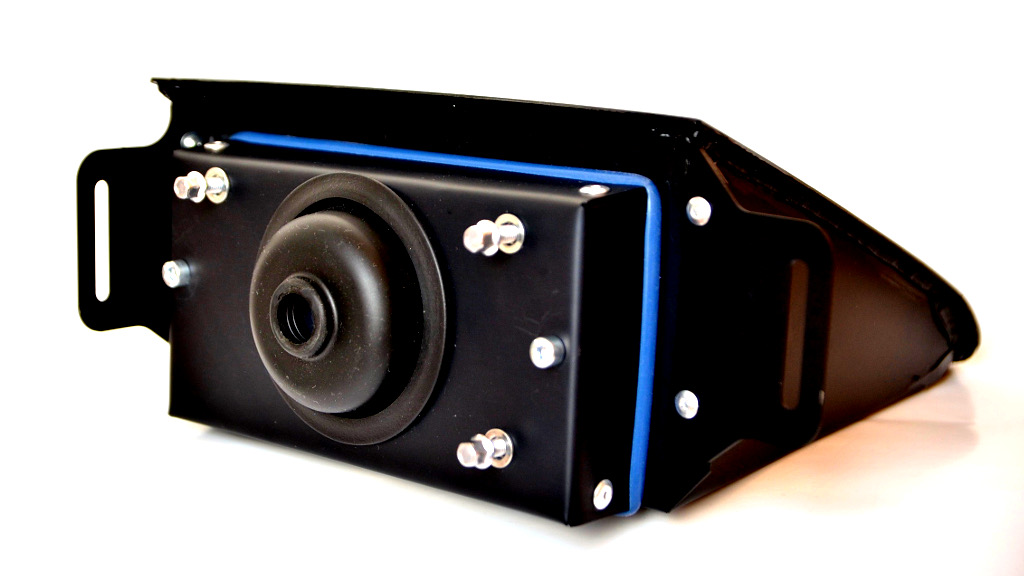
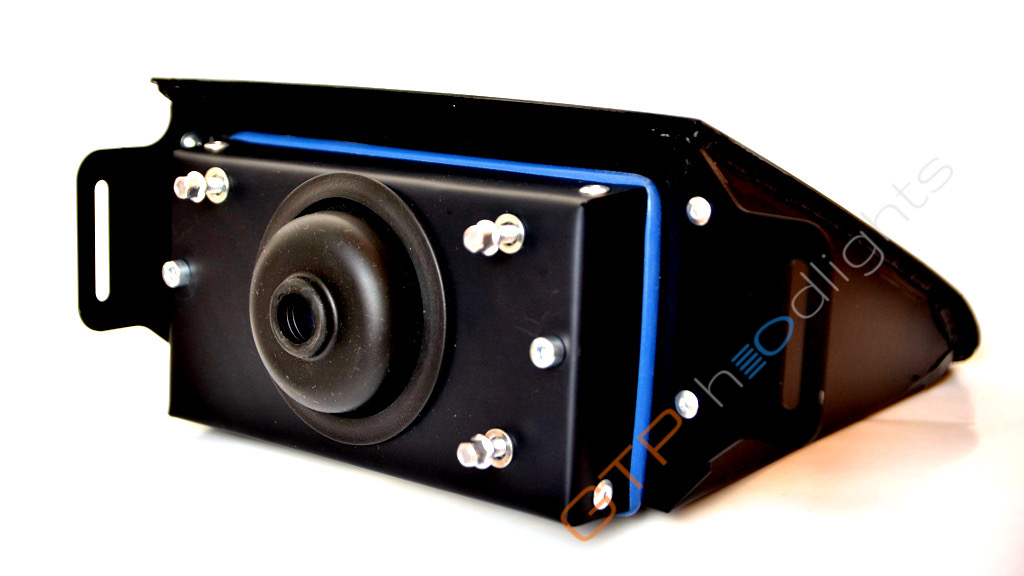
pictures clean up and WM

Changed region(s): [[0.6875, 0.4062, 0.875, 0.6875], [0.5312, 0.7188, 0.6875, 0.9375]]

diff --git a/index.html b/index.html
@@ -50,7 +50,7 @@
         <div class="mdl-grid portfolio-max-width">
             <div class="mdl-cell mdl-cell--4-col mdl-cell--4-col-tablet mdl-card  mdl-card mdl-shadow--4dp portfolio-blog-card-compact">
                 <div class="mdl-card__media">
-                    <img class="article-image" src="moje/hella.jpg" border="0" alt="">
+                    <img class="article-image" src="static/photos/hella.jpg" border="0" alt="">
                 </div>
                 <div class="mdl-card__title ">
                     <h2 class="mdl-card__title-text">NEW! Dual featured lenses</h2>
@@ -70,7 +70,7 @@
             </div>
             <div class="mdl-cell mdl-cell--4-col mdl-cell--4-col-tablet mdl-card  mdl-card mdl-shadow--4dp portfolio-blog-card-compact">
                 <div class="mdl-card__media">
-                    <img class="article-image" src="moje/silver-led.jpg" border="0" alt="">
+                    <img class="article-image" src="static/photos/silver-led.jpg" border="0" alt="">
                 </div>
                 <div class="mdl-card__title ">
                     <h2 class="mdl-card__title-text">NEW! Classic look new technology</h2>
@@ -90,7 +90,7 @@
             </div>
             <div class="mdl-cell mdl-cell--4-col mdl-cell--4-col-tablet mdl-card  mdl-card mdl-shadow--4dp portfolio-blog-card-compact">
                 <div class="mdl-card__media">
-                    <img class="article-image" src="moje/black-led.jpg" border="0" alt="">
+                    <img class="article-image" src="static/photos/black-led.jpg" border="0" alt="">
                 </div>
                 <div class="mdl-card__title ">
                     <h2 class="mdl-card__title-text">NEW! Dark look and new technology</h2>
@@ -110,7 +110,7 @@
             </div>
             <div class="mdl-grid mdl-cell mdl-cell--12-col mdl-cell--12-col-tablet mdl-card mdl-shadow--4dp">
                 <div class="mdl-card__media mdl-cell mdl-cell--6-col mdl-cell--6-col-tablet">
-                    <img class="article-image" src="moje/weight.png" border="0" alt="">
+                    <img class="article-image" src="static/photos/weight.png" border="0" alt="">
                 </div>
                 <div class="mdl-cell mdl-cell--6-col">
                     <div class="mdl-card__title ">
@@ -136,7 +136,7 @@
                     <h2 class="mdl-card__title-text">Lights designed for competition use!</h2>
                 </div>
                 <div class="mdl-card__media">
-                    <a href="#"> <img class="article-image" src="moje/competition-use.jpg" border="0" alt=""></a>
+                    <a href="#"> <img class="article-image" src="static/photos/competition-use.jpg" border="0" alt=""></a>
                 </div>
                 <div class="mdl-card__supporting-text">
                     <p>Very light replacement for the heavy original ones but resistant to heavy condition.</p>
@@ -144,7 +144,7 @@
             </div>
             <div class="mdl-cell mdl-cell--4-col mdl-cell--6-col-tablet mdl-card mdl-shadow--4dp ">
                 <div class="mdl-card__media">
-                    <a href="#"> <img class="article-image" src="moje/left-beam.png" border="0" alt=""></a>
+                    <a href="#"> <img class="article-image" src="static/photos/left-beam.png" border="0" alt=""></a>
                 </div>
                 <div class="mdl-card__supporting-text">
                     <h2 class="mdl-card__title-text">Handcrafted. Limited edition!</h2>
@@ -192,7 +192,7 @@
             </div>
             <div class="mdl-cell mdl-cell--5-col mdl-cell--6-col-tablet mdl-card  mdl-card mdl-shadow--4dp portfolio-blog-card-compact">
                 <div class="mdl-card__media">
-                    <img class="article-image" src="moje/mounting.jpg" border="0" alt="">
+                    <img class="article-image" src="static/photos/mounting.jpg" border="0" alt="">
                 </div>
                 <div class="mdl-card__title ">
                     <h2 class="mdl-card__title-text">Easy installation</h2>

diff --git a/home-test.html b/home-test.html
@@ -52,7 +52,7 @@
         <div class="mdl-grid portfolio-max-width">
             <div class="mdl-grid mdl-cell mdl-cell--12-col mdl-cell--6-col-tablet mdl-card mdl-shadow--4dp">
                 <div class="mdl-card__media mdl-cell mdl-cell--12-col-tablet">
-                    <img class="article-image" src="moje/weight.png" border="0" alt="">
+                    <img class="article-image" src="static/photos/weight.png" border="0" alt="">
                 </div>
                 <div class="mdl-cell mdl-cell--8-col">
                     <div class="mdl-card__title ">
@@ -74,7 +74,7 @@
                     <h2 class="mdl-card__title-text">Lights designed for competition use!</h2>
                 </div>
                 <div class="mdl-card__media">
-                    <a href="#"> <img class="article-image" src="moje/competition-use.jpg" border="0" alt=""></a>
+                    <a href="#"> <img class="article-image" src="static/photos/competition-use.jpg" border="0" alt=""></a>
                 </div>
                 <!--<div class="mdl-card__medial-card__supporting-text no-bottom-padding">-->
                 <!--<span>Posted 2 days ago</span>-->
@@ -95,7 +95,7 @@
             <!--</div>-->
             <div class="mdl-cell mdl-cell--4-col mdl-cell--6-col-tablet mdl-card mdl-shadow--4dp ">
                 <div class="mdl-card__media">
-                    <a href="#"> <img class="article-image" src="moje/left-beam.png" border="0" alt=""></a>
+                    <a href="#"> <img class="article-image" src="static/photos/left-beam.png" border="0" alt=""></a>
                 </div>
                 <div class="mdl-card__supporting-text">
                     <h2 class="mdl-card__title-text">Handcrafted. Limited edition!</h2>
@@ -152,7 +152,7 @@
             </div>
             <div class="mdl-cell mdl-cell--5-col mdl-cell--6-col-tablet mdl-card  mdl-card mdl-shadow--4dp portfolio-blog-card-compact">
                 <div class="mdl-card__media">
-                    <img class="article-image" src="moje/mounting.jpg" border="0" alt="">
+                    <img class="article-image" src="static/photos/mounting.jpg" border="0" alt="">
                 </div>
                 <div class="mdl-card__title ">
                     <h2 class="mdl-card__title-text">Easy installation</h2>

diff --git a/purchase.html b/purchase.html
@@ -50,7 +50,7 @@
         <div class="mdl-grid portfolio-max-width">
             <div class="mdl-cell mdl-cell--6-col mdl-cell--6-col-tablet mdl-card  mdl-card mdl-shadow--6dp portfolio-blog-card-compact">
                 <div class="mdl-card__media">
-                    <img class="article-image" src="moje/halogen.jpg" border="0" alt="">
+                    <img class="article-image" src="static/photos/halogen.jpg" border="0" alt="">
                 </div>
                 <div class="mdl-card__title ">
                     <h2 class="mdl-card__title-text">924 GTP LeMans inspired headlights</h2>
@@ -67,7 +67,7 @@
             </div>
             <div class="mdl-cell mdl-cell--6-col mdl-cell--6-col-tablet mdl-card  mdl-card mdl-shadow--6dp portfolio-blog-card-compact">
                 <div class="mdl-card__media">
-                    <img class="article-image" src="moje/hella.jpg" border="0" alt="">
+                    <img class="article-image" src="static/photos/hella.jpg" border="0" alt="">
                 </div>
                 <div class="mdl-card__title ">
                     <h2 class="mdl-card__title-text">Dual lenses</h2>
@@ -84,7 +84,7 @@
             </div>
             <div class="mdl-cell mdl-cell--6-col mdl-cell--6-col-tablet mdl-card  mdl-card mdl-shadow--6dp portfolio-blog-card-compact">
                 <div class="mdl-card__media">
-                    <img class="article-image" src="moje/silver-led.jpg" border="0" alt="">
+                    <img class="article-image" src="static/photos/silver-led.jpg" border="0" alt="">
                 </div>
                 <div class="mdl-card__title ">
                     <h2 class="mdl-card__title-text">Silver LED</h2>
@@ -101,7 +101,7 @@
             </div>
             <div class="mdl-cell mdl-cell--6-col mdl-cell--6-col-tablet mdl-card  mdl-card mdl-shadow--6dp portfolio-blog-card-compact">
                 <div class="mdl-card__media">
-                    <img class="article-image" src="moje/black-led.jpg" border="0" alt="">
+                    <img class="article-image" src="static/photos/black-led.jpg" border="0" alt="">
                 </div>
                 <div class="mdl-card__title ">
                     <h2 class="mdl-card__title-text">Black LED</h2>

diff --git a/static/styles.css b/static/styles.css
@@ -1,6 +1,6 @@
 .portfolio-header {
   position: relative;
-background-image: url(../moje/asfaltowa-tekstura.jpg);
+background-image: url(../static/photos/asfaltowa-tekstura.jpg);
 }
 
 .portfolio-header .mdl-layout__header-row {
@@ -29,7 +29,7 @@ background-image: url(../moje/asfaltowa-tekstura.jpg);
 }
 
 .portfolio-logo {
-  background: url(gtp-2.0.png) 50% no-repeat;
+  background: url(headers/gtp-2.0.png) 50% no-repeat;
   background-size: cover;
   height: 130px;
   width: 360px;
@@ -37,7 +37,7 @@ background-image: url(../moje/asfaltowa-tekstura.jpg);
 }
 
 .is-compact .portfolio-logo {
-  background: url(gtp-2.1.png) 50% no-repeat;
+  background: url(headers/gtp-2.1.png) 50% no-repeat;
   height: 74px;
   width: 580px;
   margin-top: 7px;
@@ -88,15 +88,15 @@ background-image: url(../moje/asfaltowa-tekstura.jpg);
 }
 
 .portfolio-blog-card-full-bg {
-  background: url(../moje/quality.jpg) center / cover;
+  background: url(../static/photos/quality.jpg) center / cover;
 }
 
 .portfolio-blog-card-event-bg {
-  background: url(../moje/evening.jpg) center / cover;
+  background: url(../static/photos/evening.jpg) center / cover;
 }
 
 .portfolio-blog-card-strip-bg {
-  background: url(../moje/adjustment.jpg) center / cover;
+  background: url(../static/photos/adjustment.jpg) center / cover;
 }
 
 .portfolio-blog-card-compact .mdl-card__title {
@@ -165,7 +165,7 @@ img.article-image {
 }
 
 footer {
-  background-image: url(../moje/footer-background.png);
+  background-image: url(../static/photos/footer-background.png);
   background-size: cover;
 }
 
@@ -200,5 +200,5 @@ footer.mdl-mini-footer .social-btn {
 }
 
 .social-btn__facebook {
-  background-image: url(../moje/facebook-box.png);
+  background-image: url(../static/photos/facebook-box.png);
 }

diff --git a/installation.html b/installation.html
@@ -55,7 +55,7 @@
           <h2 class="mdl-card__title-text">How to install GTP Headlights</h2>
         </div>
         <div class="mdl-card__media">
-          <img class="article-image" src="moje/install.png" border="0" alt="">
+          <img class="article-image" src="static/photos/install.png" border="0" alt="">
         </div>
 
         <div class="mdl-grid portfolio-copy">
@@ -77,7 +77,7 @@
                 picture. Long band brackets are mounted on the lock carrier side. Do not tight brackets too much to the
                 car body.
               </li>
-              <img width="90%" src="moje/bearing-brackets.png"/>
+              <img width="90%" src="static/photos/bearing-brackets.png"/>
               <li>Check if mounting holes fits headlight's housing mounting wholes, adjust bracket on the car if needed.
                 Properly mounted brackets should leave adjustment range.
               </li>

diff --git a/spec.html b/spec.html
@@ -55,7 +55,7 @@
           <h2 class="mdl-card__title-text">2018 edition > Specification</h2>
         </div>
         <div class="mdl-card__media">
-          <img class="article-image" src="moje/spec.jpg" border="0" alt="">
+          <img class="article-image" src="static/photos/spec-wm.jpg" border="0" alt="">
         </div>
         <div class="mdl-card__supporting-text" style="overflow: scroll;">
           <table style="margin: auto" class="mdl-data-table mdl-js-data-table mdl-shadow--2dp">

diff --git a/contact.html b/contact.html
@@ -55,7 +55,7 @@
           <h2 class="mdl-card__title-text">Contact me</h2>
         </div>
         <div class="mdl-card__media">
-          <img class="article-image" src="moje/contact.png" border="0" alt="">
+          <img class="article-image" src="static/photos/contact.png" border="0" alt="">
         </div>
         <div class="mdl-card__supporting-text" style="padding: 10%">
           <p>ProSoft Piotr Łochowski</p>

diff --git a/background.html b/background.html
@@ -56,7 +56,7 @@
           <h2 class="mdl-card__title-text">Background information</h2>
         </div>
         <div class="mdl-card__media">
-          <img class="article-image" src="moje/background.jpg" border="0" alt="">
+          <img class="article-image" src="static/photos/background.jpg" border="0" alt="">
         </div>
 
         <div class="mdl-grid portfolio-copy">
